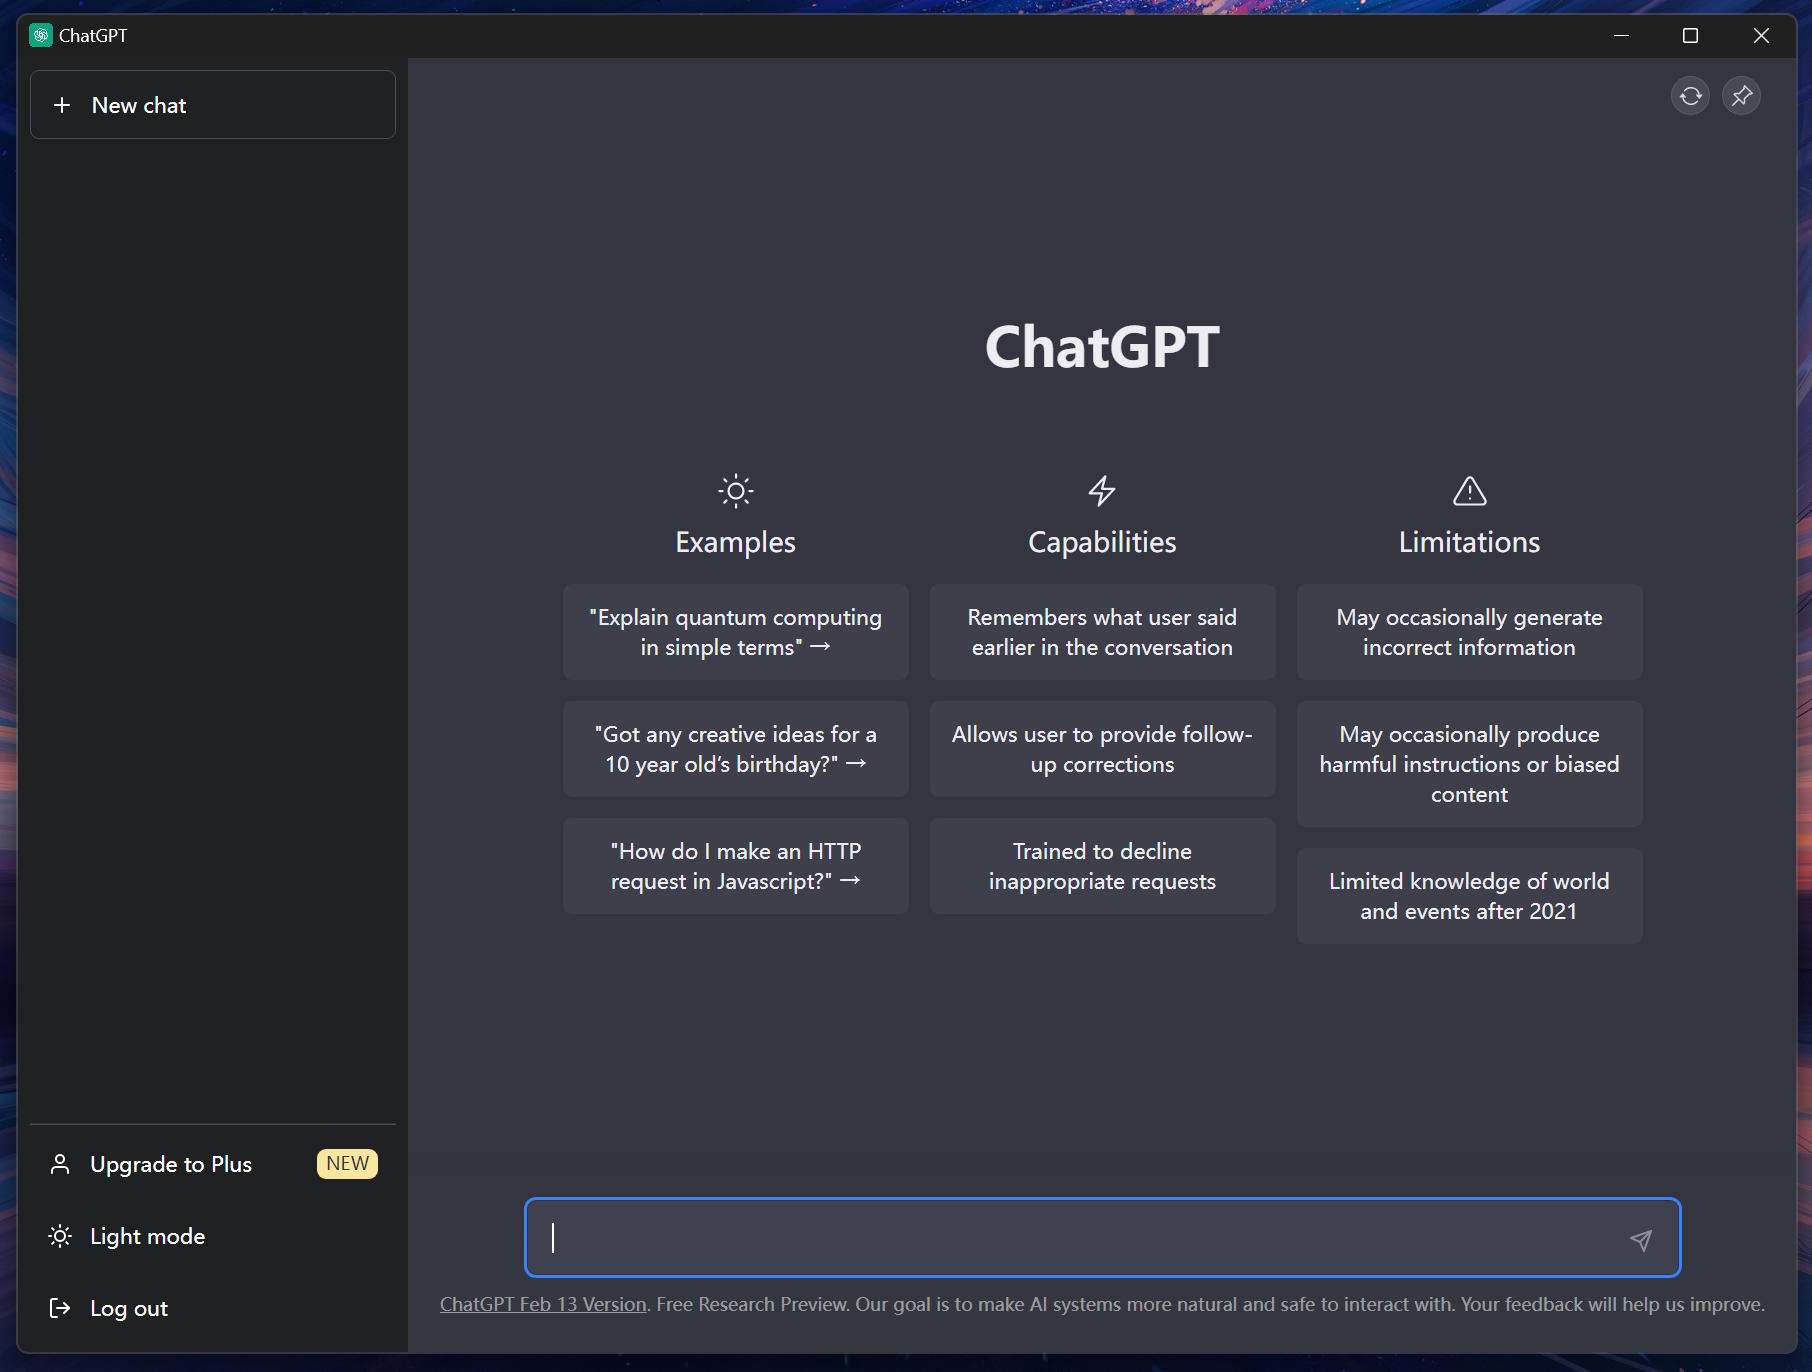
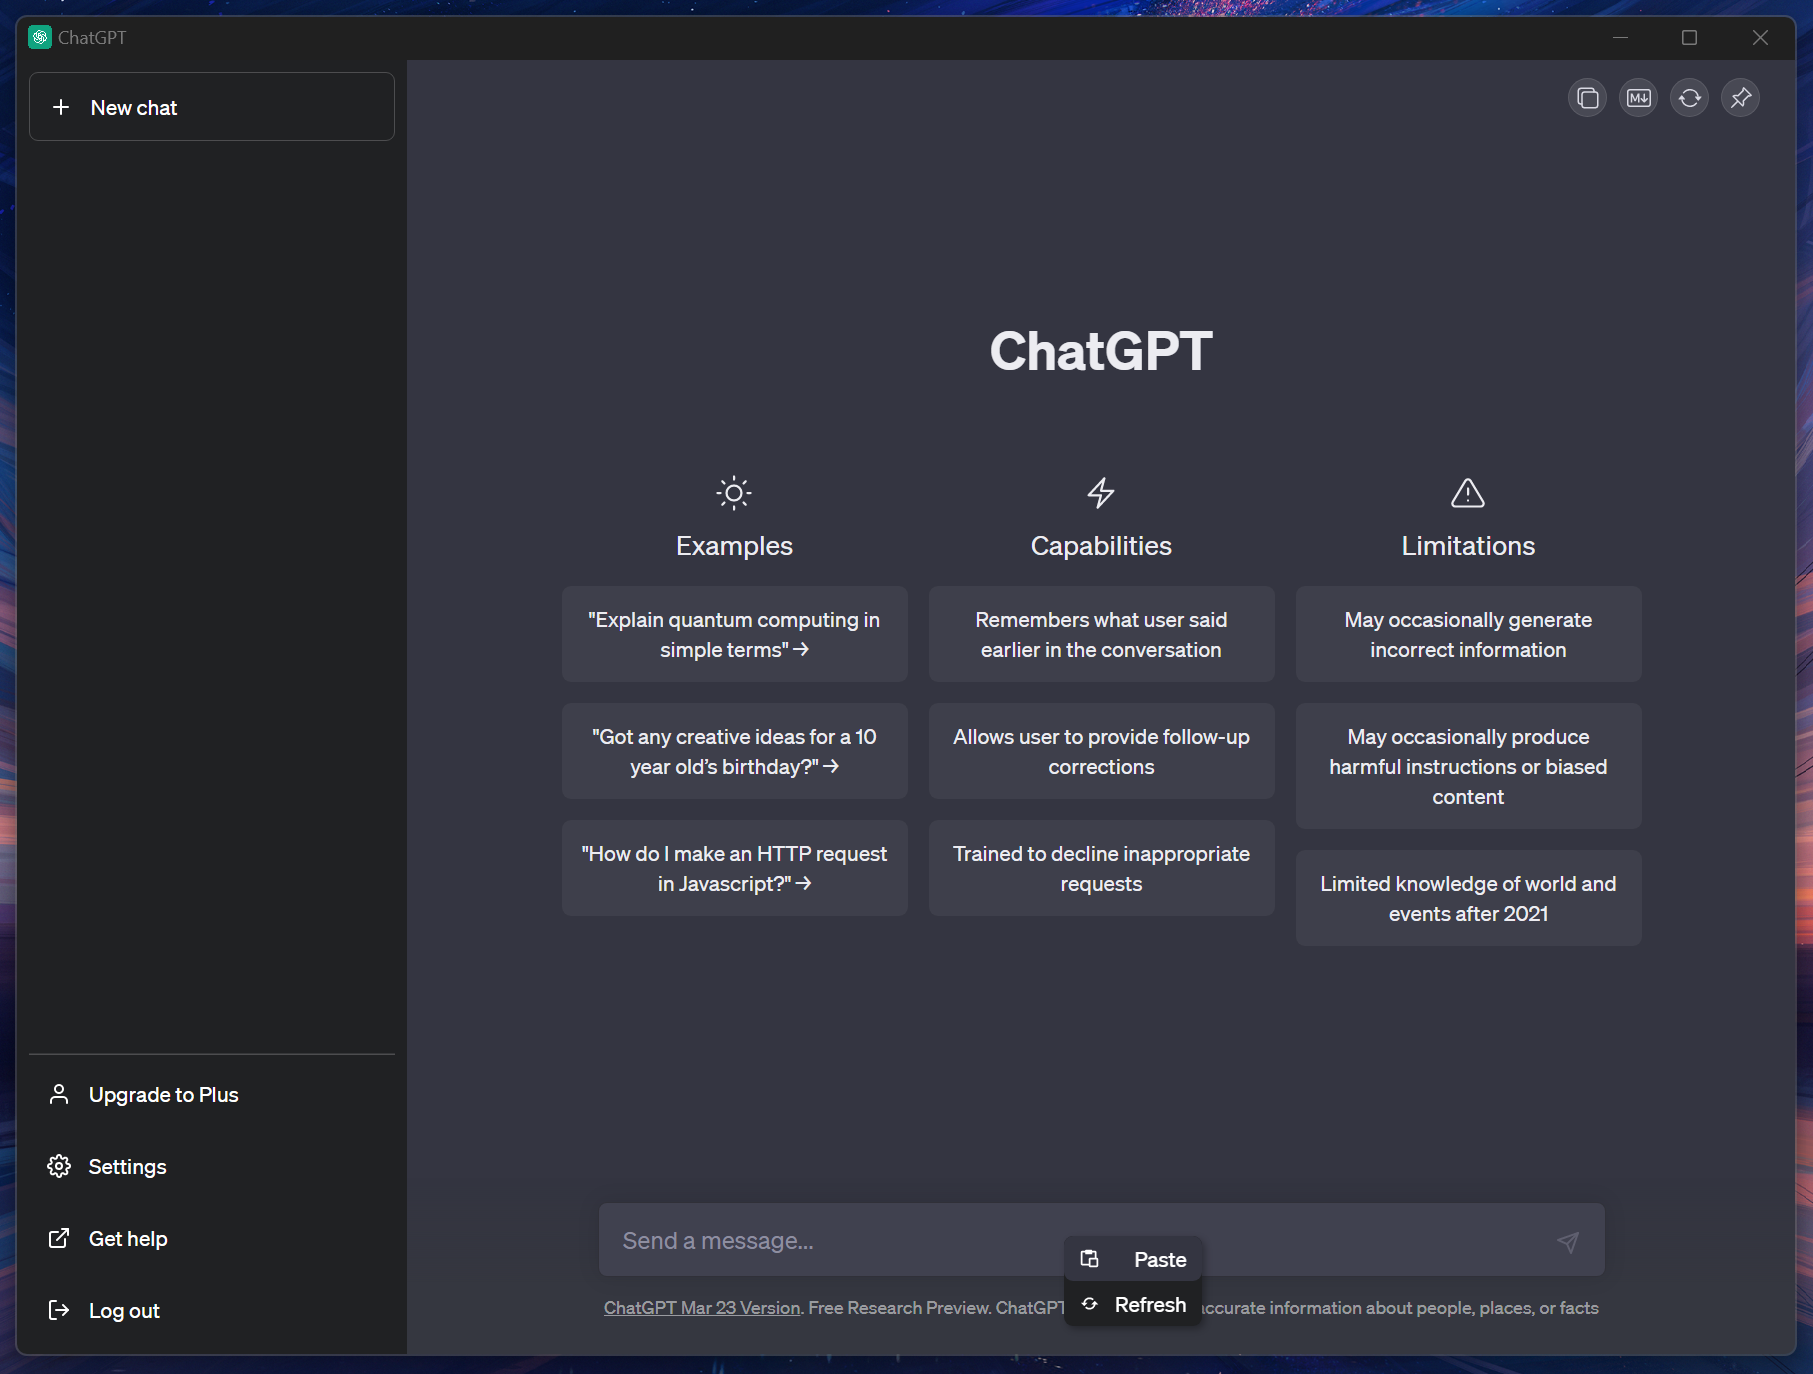
feat: i18n & textarea resize hotkey

diff --git a/src/contentScript.js b/src/contentScript.js
@@ -24,17 +24,16 @@
   };
 
   const TEXT = {
-    refresh: '刷新',
-    unpin: '取消置顶',
-    pin: '置顶',
-    collapse: '折叠',
-    expand: '展开',
-    cut: '剪切',
-    copy: '复制',
-    paste: '粘贴',
-    delete: '删除',
-    saveChatAsMarkdown: '导出为 Markdown',
-    copyChatAsMarkdown: '复制为 Markdown',
+    refresh: '刷新 (Ctrl + R)',
+    unpin: '取消置顶 (Ctrl + T)',
+    pin: '置顶 (Ctrl + T)',
+    collapse: '折叠 (Ctrl + E)',
+    expand: '展开 (Ctrl + E)',
+    cut: '剪切 (Ctrl + X)',
+    copy: '复制 (Ctrl + C)',
+    paste: '粘贴 (Ctrl + V)',
+    saveChatAsMarkdown: '导出为 Markdown (Ctrl + S)',
+    copyChatAsMarkdown: '复制为 Markdown ',
   };
 
   // END_SECTION
@@ -329,6 +328,9 @@
 
   const createTextareaResizeButton = () => {
     const textarea = getTextarea();
+    // return if x-resize is already initialized
+    if (textarea.dataset.resize === 'initialized') return;
+    textarea.dataset.resize = 'initialized';
     const container = document.querySelector('form > div > div:last-child');
     container.querySelector('button > svg').style.marginRight = 0;
     const button = document.createElement('div');
@@ -375,6 +377,7 @@
 
     // focus textarea on click
     container.addEventListener('click', () => getTextarea().focus());
+    window.toggleTextarea = toggle;
   };
 
   const createToolbar = (items) => {
@@ -497,6 +500,11 @@
           return;
         }
 
+        case 'e': {
+          event.preventDefault();
+          window.toggleTextarea();
+        }
+
         default:
           break;
       }
@@ -523,10 +531,16 @@
   const init = () => {
     if (window.pluginInitialized) return;
     window.pluginInitialized = true;
+    const textarea = getTextarea();
 
     // Load features
     createContextMenu();
     createTextareaResizeButton();
+    // on dom change
+    new MutationObserver(() => {
+      console.log('dom changed');
+      createTextareaResizeButton();
+    }).observe(document, { childList: true, subtree: true });
 
     createToolbar([
       {
@@ -636,7 +650,6 @@ form > div div:last-child:focus-within {
     document.addEventListener('keydown', keydownHandler);
 
     // Send the coordinates of the textarea to the main process
-    const textarea = getTextarea();
     const { left, top, width, height } = textarea.getBoundingClientRect();
     const x = Math.floor(left + width / 2);
     const y = Math.floor(top + height / 2);

diff --git a/README.md b/README.md
@@ -20,6 +20,8 @@
 - 快捷键
   - 复制：`Ctrl + C`
   - 粘贴：`Ctrl + V`
+  - 撤销：`Ctrl + Z`
+  - 重做：`Ctrl + Y`
   - 刷新页面：`Ctrl + R` 或 `F5`
   - 置顶窗口：`Ctrl + T`
   - 复制对话：`Ctrl + M`
@@ -33,6 +35,9 @@
   - 放大内容：`Ctrl + ➕`
   - 缩小内容：`Ctrl + ➖`
   - 重置缩放：`Ctrl + 0`
+  - 展开/折叠输入框`Ctrl + E`
 - 使用 MathJax 自动渲染 Latex 公式
   - 参考： [chatgpt-latex-render.js](https://greasyfork.org/zh-CN/scripts/456049)
 - 隐藏 Upgrade to Plus 提示
+- Heartbeat 保活
+  - 参考： [chatgpt-heartbeat](https://greasyfork.org/scripts/462967-chatgpt-heartbeat)
